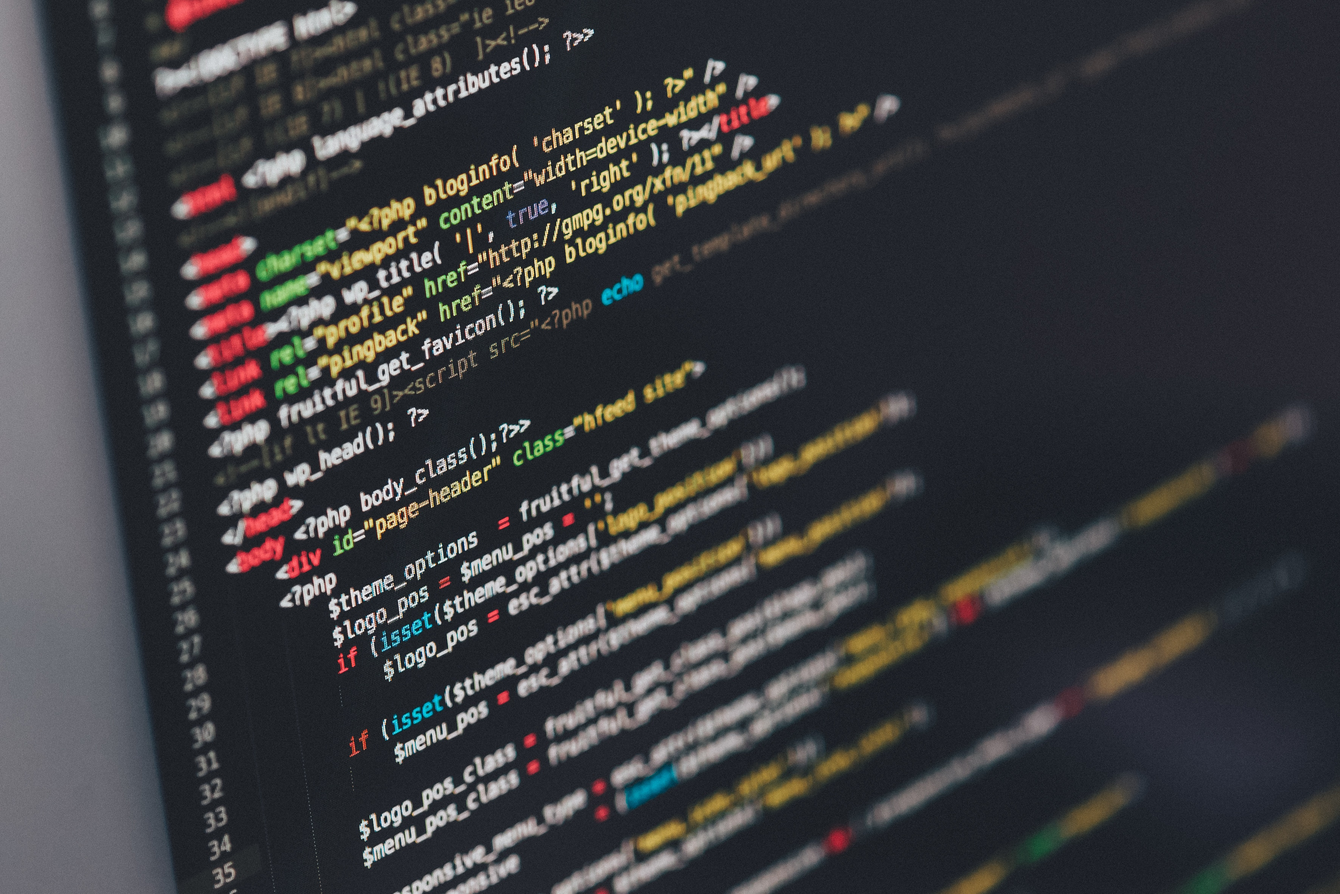
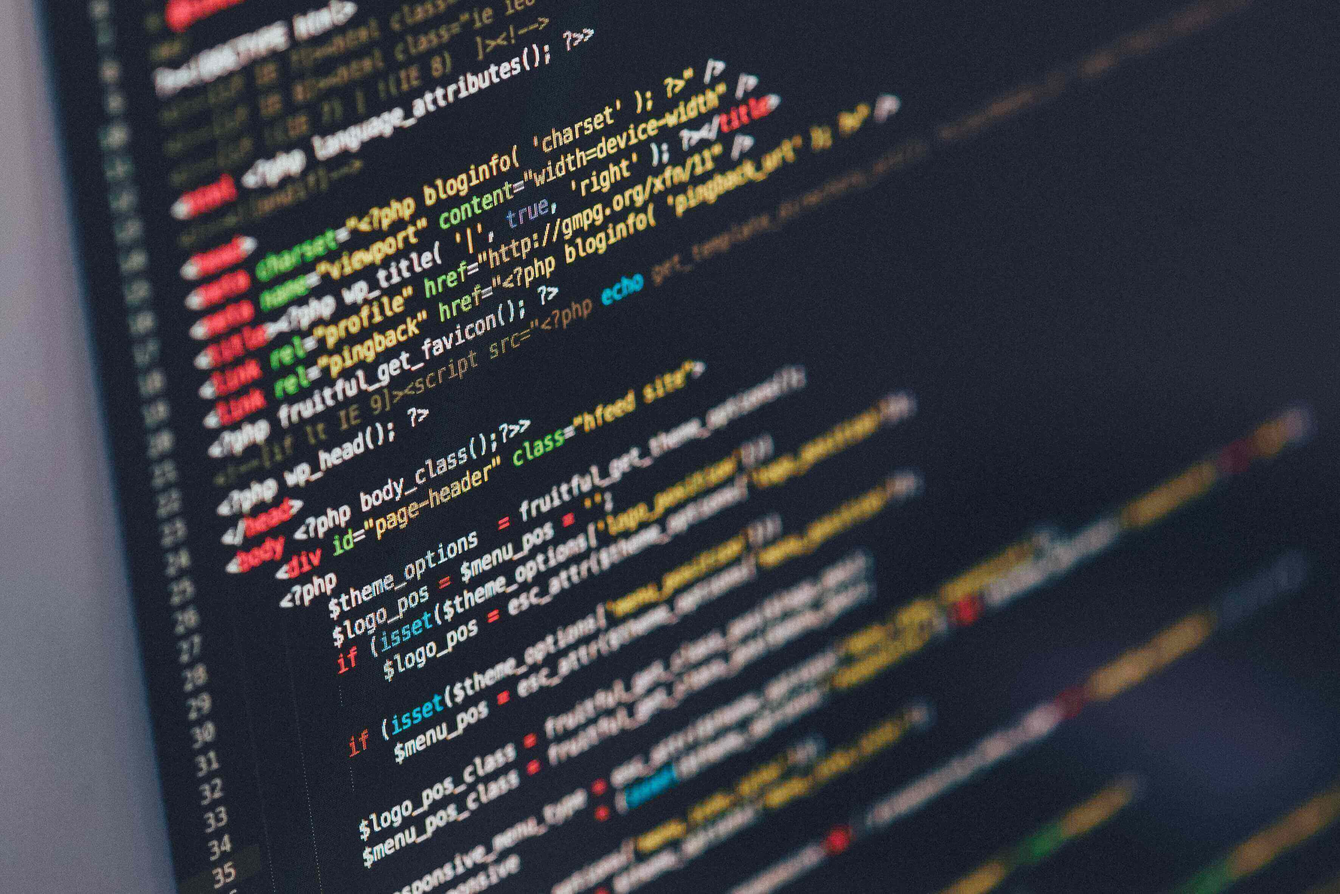
smaller hero

diff --git a/index.html b/index.html
@@ -25,16 +25,16 @@
             </div>
             <ul>
                 <li>
-                    <a href="#">About</a>
+                    <a href="#about">About</a>
                 </li>
                 <li>
-                    <a href="#">Hobbies</a>
+                    <a href="#hobbies">Hobbies</a>
                 </li>
                 <li>
-                    <a href="#">Skills</a>
+                    <a href="#skills">Skills</a>
                 </li>
                 <li>
-                    <a href="#">Projects</a>
+                    <a href="#projects">Projects</a>
                 </li>
             </ul>
             <div class="social__icon">
@@ -45,21 +45,35 @@
         </nav>
         
         <section class="content about">
-            <h2>CDN...</h2>
+            <h2 id="about">ABOUT</h2>
+          <p>
+                Lorem ipsum dolor sit amet consectetur adipisicing elit. Debitis, quae eligendi porro, earum culpa provident delectus saepe reprehenderit nihil asperiores dolorum minima, facilis error voluptas totam repudiandae! Delectus dolorum quisquam, corporis quae a praesentium, quis mollitia voluptatem, quas sequi doloremque suscipit voluptatum tenetur nam reprehenderit. Praesentium odit, unde commodi sunt odio dolor voluptates adipisci facere, impedit laudantium ipsam! Possimus, voluptates. Expedita accusantium magnam iusto, quidem deserunt optio minima neque natus non eaque nesciunt vel illum quia corrupti fugit commodi, aspernatur ea recusandae soluta et officiis animi, vero quod! Minima incidunt illo laudantium. Iure, mollitia blanditiis veritatis eum architecto nam maxime similique dicta accusantium labore rem unde veniam quod delectus omnis, facilis iste, autem quae consequuntur est quibusdam obcaecati ullam vero dignissimos! Excepturi porro, ad sunt sequi optio in labore quibusdam repellat unde nemo enim quas ipsum cumque vitae soluta nihil dolore aliquam tenetur tempore, expedita consequuntur ex earum? Reiciendis odio qui harum minus provident est voluptas eaque fugiat perspiciatis in aperiam doloribus ullam cum, illo, magnam voluptates molestias cumque! Ad repellat iste fuga nostrum esse incidunt labore quae aliquam quam quidem laudantium voluptatibus deserunt, eaque, ex, cumque eius id. Aliquid perspiciatis voluptate vero ipsa, alias veritatis id ullam laudantium eos quos ratione provident reiciendis iure tenetur quae molestias at voluptates, adipisci repellat dolore sed. Modi itaque libero error iste soluta! In animi recusandae pariatur impedit iure expedita qui velit laboriosam sapiente explicabo. Iste velit officia deserunt veritatis eaque excepturi, quibusdam sequi rem, nam, ipsa quasi voluptatum consequatur voluptas labore? Labore deserunt suscipit voluptas exercitationem ducimus! Nihil asperiores libero, tempore sit iusto aspernatur. Optio alias quae earum excepturi, odit doloremque animi quisquam eum facere blanditiis consequatur molestias ullam magnam magni voluptate temporibus reprehenderit asperiores veritatis, quibusdam ad. Suscipit voluptatibus non accusantium cupiditate natus, laboriosam enim laborum dicta incidunt eaque quam, fugit voluptates alias eligendi rerum iure ab! Pariatur dolores debitis praesentium consectetur enim aliquid neque eum esse odit mollitia? Neque molestiae ex cum iste dolore dicta nostrum est dolores voluptatem fuga necessitatibus eius impedit nemo beatae numquam aperiam, repellendus laborum accusantium, facilis, consectetur aliquid dolorem quos corrupti. Accusamus, impedit inventore laboriosam neque asperiores sint quidem dignissimos quisquam blanditiis ea tempore libero fugit, qui provident quae incidunt dolores et voluptatem quas adipisci aliquid! Iste quam soluta adipisci cupiditate, odit dolor iusto eos, vero quas suscipit ipsa fugiat veritatis! Aliquam veniam magni, quia suscipit sint fuga culpa quisquam doloribus numquam? Fugiat velit doloribus eveniet unde dolore minus totam quasi alias repellat ad atque, officiis qui facilis veritatis accusamus aliquid optio expedita dolorem nemo illo! Sed, voluptas eius alias iusto aliquid repellat ab expedita qui reprehenderit quas ratione quo laborum totam rem ea dignissimos, ullam libero. Ea reprehenderit facere voluptates placeat laborum labore, at molestias quo libero a dignissimos saepe, laudantium ipsum expedita magni minima atque tempora dolores nostrum ducimus. Impedit tempora possimus modi ratione, soluta quas. Eius dolore, veritatis commodi ipsa obcaecati hic voluptas beatae velit eligendi repudiandae. Impedit culpa soluta quisquam sit recusandae, nulla animi aperiam quidem repellendus, odit incidunt vero quam eum optio! Tenetur, libero quidem. Saepe, explicabo fugiat? Nostrum, hic magnam fugit obcaecati neque quas. Hic nostrum consequuntur beatae fugit illo, laudantium aspernatur, nesciunt dolorem quae atque nam possimus ad, a quaerat quam illum assumenda enim fugiat in delectus cum! Maxime eveniet nulla, unde ipsum quidem eos quasi? Eos porro unde officia minima ipsum eligendi, laudantium non maxime adipisci voluptate animi quaerat eveniet aliquid quod quasi ea inventore optio voluptatum delectus voluptas numquam exercitationem, necessitatibus aut. Aut, rerum consectetur similique voluptates maiores ipsam numquam sint accusamus exercitationem id ullam, repellat fugiat laboriosam voluptas. Fugiat natus odio soluta voluptatibus enim quo, expedita rem pariatur! Eveniet qui suscipit molestiae exercitationem impedit quis reprehenderit. Fuga, animi eligendi facere mollitia recusandae, impedit praesentium earum aut quo sed veniam repudiandae illo necessitatibus fugit dicta nemo! Facere quas ipsam voluptatum soluta dignissimos quia nobis distinctio fugit quasi sequi nihil adipisci quis cum laborum mollitia alias iusto veritatis suscipit quidem sapiente, in dolore tenetur cumque. Perferendis animi officiis asperiores qui assumenda veritatis iusto facere provident repellat, distinctio quam ea aspernatur fugiat voluptate necessitatibus corrupti pariatur, natus hic perspiciatis sint rerum? Reprehenderit placeat cum repellat nostrum tempore dignissimos commodi sit magni natus consectetur? Accusantium eaque nam laboriosam laborum fugit vero exercitationem, molestiae incidunt nesciunt possimus deleniti sunt inventore tempore dolorum dicta, delectus beatae reiciendis eligendi maxime aspernatur harum facere ea amet esse. Similique harum rem sequi, consequatur consequuntur quae tenetur dicta voluptas explicabo doloremque nobis non unde eos optio atque porro assumenda necessitatibus. Tempora quod, soluta iusto ipsum magni distinctio dignissimos ratione cupiditate quisquam praesentium laborum veritatis ea repellendus dolor eveniet vel temporibus dolores! In ut, voluptatibus quis quia dolores cumque, deserunt quas, aspernatur assumenda odit et delectus maiores laboriosam rem quisquam? Nam nihil ea voluptatibus eaque excepturi quidem nostrum. Obcaecati sunt optio voluptatibus? Dolorum, facilis cumque officiis id nihil quisquam et illo! Deleniti iure reiciendis repudiandae maxime corporis obcaecati. Cupiditate est repellendus officiis? Facilis velit sint quae odio sed fuga suscipit ad, eius quo tenetur, accusamus, asperiores unde ea quos quas delectus reiciendis nesciunt placeat! Sed deserunt blanditiis alias aliquid voluptatum ex eaque temporibus exercitationem non! Odio laboriosam quos, magnam officiis error accusantium sed accusamus soluta tempora cum facere eos at asperiores necessitatibus esse molestiae maxime porro, aut, obcaecati magni nemo? Error est explicabo delectus, vitae pariatur beatae fuga quibusdam sit exercitationem ex aperiam necessitatibus nihil! Quas, nostrum, cupiditate asperiores consequatur, animi recusandae eaque ipsum aspernatur soluta velit unde natus officia deserunt beatae maiores voluptate tempora quisquam nobis consectetur deleniti. Reiciendis laborum expedita accusantium nam quis maxime odio obcaecati molestiae facilis nostrum libero dolorem ullam sequi ea, vero amet animi culpa aliquam impedit qui quisquam consequatur illum ipsum a? Animi, eius maxime magnam quo nemo unde dolor fugiat illo hic doloremque aut accusantium nihil autem? Iusto neque magnam praesentium officia distinctio aliquid impedit dolores nemo unde exercitationem, quod ut doloremque iste numquam recusandae expedita quos inventore ad et voluptates eligend
+            </p>
         </section>
         <section class="content hobbies">
-
+                <h2 id="hobbies">HOBBIES</h2>
+                <p>
+                    Lorem ipsum dolor sit amet consectetur adipisicing elit. Debitis, quae eligendi porro, earum culpa provident delectus saepe reprehenderit nihil asperiores dolorum minima, facilis error voluptas totam repudiandae! Delectus dolorum quisquam, corporis quae a praesentium, quis mollitia voluptatem, quas sequi doloremque suscipit voluptatum tenetur nam reprehenderit. Praesentium odit, unde commodi sunt odio dolor voluptates adipisci facere, impedit laudantium ipsam! Possimus, voluptates. Expedita accusantium magnam iusto, quidem deserunt optio minima neque natus non eaque nesciunt vel illum quia corrupti fugit commodi, aspernatur ea recusandae soluta et officiis animi, vero quod! Minima incidunt illo laudantium. Iure, mollitia blanditiis veritatis eum architecto nam maxime similique dicta accusantium labore rem unde veniam quod delectus omnis, facilis iste, autem quae consequuntur est quibusdam obcaecati ullam vero dignissimos! Excepturi porro, ad sunt sequi optio in labore quibusdam repellat unde nemo enim quas ipsum cumque vitae soluta nihil dolore aliquam tenetur tempore, expedita consequuntur ex earum? Reiciendis odio qui harum minus provident est voluptas eaque fugiat perspiciatis in aperiam doloribus ullam cum, illo, magnam voluptates molestias cumque! Ad repellat iste fuga nostrum esse incidunt labore quae aliquam quam quidem laudantium voluptatibus deserunt, eaque, ex, cumque eius id. Aliquid perspiciatis voluptate vero ipsa, alias veritatis id ullam laudantium eos quos ratione provident reiciendis iure tenetur quae molestias at voluptates, adipisci repellat dolore sed. Modi itaque libero error iste soluta! In animi recusandae pariatur impedit iure expedita qui velit laboriosam sapiente explicabo. Iste velit officia deserunt veritatis eaque excepturi, quibusdam sequi rem, nam, ipsa quasi voluptatum consequatur voluptas labore? Labore deserunt suscipit voluptas exercitationem ducimus! Nihil asperiores libero, tempore sit iusto aspernatur. Optio alias quae earum excepturi, odit doloremque animi quisquam eum facere blanditiis consequatur molestias ullam magnam magni voluptate temporibus reprehenderit asperiores veritatis, quibusdam ad. Suscipit voluptatibus non accusantium cupiditate natus, laboriosam enim laborum dicta incidunt eaque quam, fugit voluptates alias eligendi rerum iure ab! Pariatur dolores debitis praesentium consectetur enim aliquid neque eum esse odit mollitia? Neque molestiae ex cum iste dolore dicta nostrum est dolores voluptatem fuga necessitatibus eius impedit nemo beatae numquam aperiam, repellendus laborum accusantium, facilis, consectetur aliquid dolorem quos corrupti. Accusamus, impedit inventore laboriosam neque asperiores sint quidem dignissimos quisquam blanditiis ea tempore libero fugit, qui provident quae incidunt dolores et voluptatem quas adipisci aliquid! Iste quam soluta adipisci cupiditate, odit dolor iusto eos, vero quas suscipit ipsa fugiat veritatis! Aliquam veniam magni, quia suscipit sint fuga culpa quisquam doloribus numquam? Fugiat velit doloribus eveniet unde dolore minus totam quasi alias repellat ad atque, officiis qui facilis veritatis accusamus aliquid optio expedita dolorem nemo illo! Sed, voluptas eius alias iusto aliquid repellat ab expedita qui reprehenderit quas ratione quo laborum totam rem ea dignissimos, ullam libero. Ea reprehenderit facere voluptates placeat laborum labore, at molestias quo libero a dignissimos saepe, laudantium ipsum expedita magni minima atque tempora dolores nostrum ducimus. Impedit tempora possimus modi ratione, soluta quas. Eius dolore, veritatis commodi ipsa obcaecati hic voluptas beatae velit eligendi repudiandae. Impedit culpa soluta quisquam sit recusandae, nulla animi aperiam quidem repellendus, odit incidunt vero quam eum optio! Tenetur, libero quidem. Saepe, explicabo fugiat? Nostrum, hic magnam fugit obcaecati neque quas. Hic nostrum consequuntur beatae fugit illo, laudantium aspernatur, nesciunt dolorem quae atque nam possimus ad, a quaerat quam illum assumenda enim fugiat in delectus cum! Maxime eveniet nulla, unde ipsum quidem eos quasi? Eos porro unde officia minima ipsum eligendi, laudantium non maxime adipisci voluptate animi quaerat eveniet aliquid quod quasi ea inventore optio voluptatum delectus voluptas numquam exercitationem, necessitatibus aut. Aut, rerum consectetur similique voluptates maiores ipsam numquam sint accusamus exercitationem id ullam, repellat fugiat laboriosam voluptas. Fugiat natus odio soluta voluptatibus enim quo, expedita rem pariatur! Eveniet qui suscipit molestiae exercitationem impedit quis reprehenderit. Fuga, animi eligendi facere mollitia recusandae, impedit praesentium earum aut quo sed veniam repudiandae illo necessitatibus fugit dicta nemo! Facere quas ipsam voluptatum soluta dignissimos quia nobis distinctio fugit quasi sequi nihil adipisci quis cum laborum mollitia alias iusto veritatis suscipit quidem sapiente, in dolore tenetur cumque. Perferendis animi officiis asperiores qui assumenda veritatis iusto facere provident repellat, distinctio quam ea aspernatur fugiat voluptate necessitatibus corrupti pariatur, natus hic perspiciatis sint rerum? Reprehenderit placeat cum repellat nostrum tempore dignissimos commodi sit magni natus consectetur? Accusantium eaque nam laboriosam laborum fugit vero exercitationem, molestiae incidunt nesciunt possimus deleniti sunt inventore tempore dolorum dicta, delectus beatae reiciendis eligendi maxime aspernatur harum facere ea amet esse. Similique harum rem sequi, consequatur consequuntur quae tenetur dicta voluptas explicabo doloremque nobis non unde eos optio atque porro assumenda necessitatibus. Tempora quod, soluta iusto ipsum magni distinctio dignissimos ratione cupiditate quisquam praesentium laborum veritatis ea repellendus dolor eveniet vel temporibus dolores! In ut, voluptatibus quis quia dolores cumque, deserunt quas, aspernatur assumenda odit et delectus maiores laboriosam rem quisquam? Nam nihil ea voluptatibus eaque excepturi quidem nostrum. Obcaecati sunt optio voluptatibus? Dolorum, facilis cumque officiis id nihil quisquam et illo! Deleniti iure reiciendis repudiandae maxime corporis obcaecati. Cupiditate est repellendus officiis? Facilis velit sint quae odio sed fuga suscipit ad, eius quo tenetur, accusamus, asperiores unde ea quos quas delectus reiciendis nesciunt placeat! Sed deserunt blanditiis alias aliquid voluptatum ex eaque temporibus exercitationem non! Odio laboriosam quos, magnam officiis error accusantium sed accusamus soluta tempora cum facere eos at asperiores necessitatibus esse molestiae maxime porro, aut, obcaecati magni nemo? Error est explicabo delectus, vitae pariatur beatae fuga quibusdam sit exercitationem ex aperiam necessitatibus nihil! Quas, nostrum, cupiditate asperiores consequatur, animi recusandae eaque ipsum aspernatur soluta velit unde natus officia deserunt beatae maiores voluptate tempora quisquam nobis consectetur deleniti. Reiciendis laborum expedita accusantium nam quis maxime odio obcaecati molestiae facilis nostrum libero dolorem ullam sequi ea, vero amet animi culpa aliquam impedit qui quisquam consequatur illum ipsum a? Animi, eius maxime magnam quo nemo unde dolor fugiat illo hic doloremque aut accusantium nihil autem? Iusto neque magnam praesentium officia distinctio aliquid impedit dolores nemo unde exercitationem, quod ut doloremque iste numquam recusandae expedita quos inventore ad et voluptates eligend
+                </p>
+            </section>
         </section>
         <section class="content skills">
-
+                <h2 id="skills">SKILLS</h2>
+                <p>
+                    Lorem ipsum dolor sit amet consectetur adipisicing elit. Debitis, quae eligendi porro, earum culpa provident delectus saepe reprehenderit nihil asperiores dolorum minima, facilis error voluptas totam repudiandae! Delectus dolorum quisquam, corporis quae a praesentium, quis mollitia voluptatem, quas sequi doloremque suscipit voluptatum tenetur nam reprehenderit. Praesentium odit, unde commodi sunt odio dolor voluptates adipisci facere, impedit laudantium ipsam! Possimus, voluptates. Expedita accusantium magnam iusto, quidem deserunt optio minima neque natus non eaque nesciunt vel illum quia corrupti fugit commodi, aspernatur ea recusandae soluta et officiis animi, vero quod! Minima incidunt illo laudantium. Iure, mollitia blanditiis veritatis eum architecto nam maxime similique dicta accusantium labore rem unde veniam quod delectus omnis, facilis iste, autem quae consequuntur est quibusdam obcaecati ullam vero dignissimos! Excepturi porro, ad sunt sequi optio in labore quibusdam repellat unde nemo enim quas ipsum cumque vitae soluta nihil dolore aliquam tenetur tempore, expedita consequuntur ex earum? Reiciendis odio qui harum minus provident est voluptas eaque fugiat perspiciatis in aperiam doloribus ullam cum, illo, magnam voluptates molestias cumque! Ad repellat iste fuga nostrum esse incidunt labore quae aliquam quam quidem laudantium voluptatibus deserunt, eaque, ex, cumque eius id. Aliquid perspiciatis voluptate vero ipsa, alias veritatis id ullam laudantium eos quos ratione provident reiciendis iure tenetur quae molestias at voluptates, adipisci repellat dolore sed. Modi itaque libero error iste soluta! In animi recusandae pariatur impedit iure expedita qui velit laboriosam sapiente explicabo. Iste velit officia deserunt veritatis eaque excepturi, quibusdam sequi rem, nam, ipsa quasi voluptatum consequatur voluptas labore? Labore deserunt suscipit voluptas exercitationem ducimus! Nihil asperiores libero, tempore sit iusto aspernatur. Optio alias quae earum excepturi, odit doloremque animi quisquam eum facere blanditiis consequatur molestias ullam magnam magni voluptate temporibus reprehenderit asperiores veritatis, quibusdam ad. Suscipit voluptatibus non accusantium cupiditate natus, laboriosam enim laborum dicta incidunt eaque quam, fugit voluptates alias eligendi rerum iure ab! Pariatur dolores debitis praesentium consectetur enim aliquid neque eum esse odit mollitia? Neque molestiae ex cum iste dolore dicta nostrum est dolores voluptatem fuga necessitatibus eius impedit nemo beatae numquam aperiam, repellendus laborum accusantium, facilis, consectetur aliquid dolorem quos corrupti. Accusamus, impedit inventore laboriosam neque asperiores sint quidem dignissimos quisquam blanditiis ea tempore libero fugit, qui provident quae incidunt dolores et voluptatem quas adipisci aliquid! Iste quam soluta adipisci cupiditate, odit dolor iusto eos, vero quas suscipit ipsa fugiat veritatis! Aliquam veniam magni, quia suscipit sint fuga culpa quisquam doloribus numquam? Fugiat velit doloribus eveniet unde dolore minus totam quasi alias repellat ad atque, officiis qui facilis veritatis accusamus aliquid optio expedita dolorem nemo illo! Sed, voluptas eius alias iusto aliquid repellat ab expedita qui reprehenderit quas ratione quo laborum totam rem ea dignissimos, ullam libero. Ea reprehenderit facere voluptates placeat laborum labore, at molestias quo libero a dignissimos saepe, laudantium ipsum expedita magni minima atque tempora dolores nostrum ducimus. Impedit tempora possimus modi ratione, soluta quas. Eius dolore, veritatis commodi ipsa obcaecati hic voluptas beatae velit eligendi repudiandae. Impedit culpa soluta quisquam sit recusandae, nulla animi aperiam quidem repellendus, odit incidunt vero quam eum optio! Tenetur, libero quidem. Saepe, explicabo fugiat? Nostrum, hic magnam fugit obcaecati neque quas. Hic nostrum consequuntur beatae fugit illo, laudantium aspernatur, nesciunt dolorem quae atque nam possimus ad, a quaerat quam illum assumenda enim fugiat in delectus cum! Maxime eveniet nulla, unde ipsum quidem eos quasi? Eos porro unde officia minima ipsum eligendi, laudantium non maxime adipisci voluptate animi quaerat eveniet aliquid quod quasi ea inventore optio voluptatum delectus voluptas numquam exercitationem, necessitatibus aut. Aut, rerum consectetur similique voluptates maiores ipsam numquam sint accusamus exercitationem id ullam, repellat fugiat laboriosam voluptas. Fugiat natus odio soluta voluptatibus enim quo, expedita rem pariatur! Eveniet qui suscipit molestiae exercitationem impedit quis reprehenderit. Fuga, animi eligendi facere mollitia recusandae, impedit praesentium earum aut quo sed veniam repudiandae illo necessitatibus fugit dicta nemo! Facere quas ipsam voluptatum soluta dignissimos quia nobis distinctio fugit quasi sequi nihil adipisci quis cum laborum mollitia alias iusto veritatis suscipit quidem sapiente, in dolore tenetur cumque. Perferendis animi officiis asperiores qui assumenda veritatis iusto facere provident repellat, distinctio quam ea aspernatur fugiat voluptate necessitatibus corrupti pariatur, natus hic perspiciatis sint rerum? Reprehenderit placeat cum repellat nostrum tempore dignissimos commodi sit magni natus consectetur? Accusantium eaque nam laboriosam laborum fugit vero exercitationem, molestiae incidunt nesciunt possimus deleniti sunt inventore tempore dolorum dicta, delectus beatae reiciendis eligendi maxime aspernatur harum facere ea amet esse. Similique harum rem sequi, consequatur consequuntur quae tenetur dicta voluptas explicabo doloremque nobis non unde eos optio atque porro assumenda necessitatibus. Tempora quod, soluta iusto ipsum magni distinctio dignissimos ratione cupiditate quisquam praesentium laborum veritatis ea repellendus dolor eveniet vel temporibus dolores! In ut, voluptatibus quis quia dolores cumque, deserunt quas, aspernatur assumenda odit et delectus maiores laboriosam rem quisquam? Nam nihil ea voluptatibus eaque excepturi quidem nostrum. Obcaecati sunt optio voluptatibus? Dolorum, facilis cumque officiis id nihil quisquam et illo! Deleniti iure reiciendis repudiandae maxime corporis obcaecati. Cupiditate est repellendus officiis? Facilis velit sint quae odio sed fuga suscipit ad, eius quo tenetur, accusamus, asperiores unde ea quos quas delectus reiciendis nesciunt placeat! Sed deserunt blanditiis alias aliquid voluptatum ex eaque temporibus exercitationem non! Odio laboriosam quos, magnam officiis error accusantium sed accusamus soluta tempora cum facere eos at asperiores necessitatibus esse molestiae maxime porro, aut, obcaecati magni nemo? Error est explicabo delectus, vitae pariatur beatae fuga quibusdam sit exercitationem ex aperiam necessitatibus nihil! Quas, nostrum, cupiditate asperiores consequatur, animi recusandae eaque ipsum aspernatur soluta velit unde natus officia deserunt beatae maiores voluptate tempora quisquam nobis consectetur deleniti. Reiciendis laborum expedita accusantium nam quis maxime odio obcaecati molestiae facilis nostrum libero dolorem ullam sequi ea, vero amet animi culpa aliquam impedit qui quisquam consequatur illum ipsum a? Animi, eius maxime magnam quo nemo unde dolor fugiat illo hic doloremque aut accusantium nihil autem? Iusto neque magnam praesentium officia distinctio aliquid impedit dolores nemo unde exercitationem, quod ut doloremque iste numquam recusandae expedita quos inventore ad et voluptates eligend
+                </p>
+            </section>
         </section>
         <section class="content projects">
-
+                <h2 id="projects">PROJECTS</h2>
+                <p>
+                    Lorem ipsum dolor sit amet consectetur adipisicing elit. Debitis, quae eligendi porro, earum culpa provident delectus saepe reprehenderit nihil asperiores dolorum minima, facilis error voluptas totam repudiandae! Delectus dolorum quisquam, corporis quae a praesentium, quis mollitia voluptatem, quas sequi doloremque suscipit voluptatum tenetur nam reprehenderit. Praesentium odit, unde commodi sunt odio dolor voluptates adipisci facere, impedit laudantium ipsam! Possimus, voluptates. Expedita accusantium magnam iusto, quidem deserunt optio minima neque natus non eaque nesciunt vel illum quia corrupti fugit commodi, aspernatur ea recusandae soluta et officiis animi, vero quod! Minima incidunt illo laudantium. Iure, mollitia blanditiis veritatis eum architecto nam maxime similique dicta accusantium labore rem unde veniam quod delectus omnis, facilis iste, autem quae consequuntur est quibusdam obcaecati ullam vero dignissimos! Excepturi porro, ad sunt sequi optio in labore quibusdam repellat unde nemo enim quas ipsum cumque vitae soluta nihil dolore aliquam tenetur tempore, expedita consequuntur ex earum? Reiciendis odio qui harum minus provident est voluptas eaque fugiat perspiciatis in aperiam doloribus ullam cum, illo, magnam voluptates molestias cumque! Ad repellat iste fuga nostrum esse incidunt labore quae aliquam quam quidem laudantium voluptatibus deserunt, eaque, ex, cumque eius id. Aliquid perspiciatis voluptate vero ipsa, alias veritatis id ullam laudantium eos quos ratione provident reiciendis iure tenetur quae molestias at voluptates, adipisci repellat dolore sed. Modi itaque libero error iste soluta! In animi recusandae pariatur impedit iure expedita qui velit laboriosam sapiente explicabo. Iste velit officia deserunt veritatis eaque excepturi, quibusdam sequi rem, nam, ipsa quasi voluptatum consequatur voluptas labore? Labore deserunt suscipit voluptas exercitationem ducimus! Nihil asperiores libero, tempore sit iusto aspernatur. Optio alias quae earum excepturi, odit doloremque animi quisquam eum facere blanditiis consequatur molestias ullam magnam magni voluptate temporibus reprehenderit asperiores veritatis, quibusdam ad. Suscipit voluptatibus non accusantium cupiditate natus, laboriosam enim laborum dicta incidunt eaque quam, fugit voluptates alias eligendi rerum iure ab! Pariatur dolores debitis praesentium consectetur enim aliquid neque eum esse odit mollitia? Neque molestiae ex cum iste dolore dicta nostrum est dolores voluptatem fuga necessitatibus eius impedit nemo beatae numquam aperiam, repellendus laborum accusantium, facilis, consectetur aliquid dolorem quos corrupti. Accusamus, impedit inventore laboriosam neque asperiores sint quidem dignissimos quisquam blanditiis ea tempore libero fugit, qui provident quae incidunt dolores et voluptatem quas adipisci aliquid! Iste quam soluta adipisci cupiditate, odit dolor iusto eos, vero quas suscipit ipsa fugiat veritatis! Aliquam veniam magni, quia suscipit sint fuga culpa quisquam doloribus numquam? Fugiat velit doloribus eveniet unde dolore minus totam quasi alias repellat ad atque, officiis qui facilis veritatis accusamus aliquid optio expedita dolorem nemo illo! Sed, voluptas eius alias iusto aliquid repellat ab expedita qui reprehenderit quas ratione quo laborum totam rem ea dignissimos, ullam libero. Ea reprehenderit facere voluptates placeat laborum labore, at molestias quo libero a dignissimos saepe, laudantium ipsum expedita magni minima atque tempora dolores nostrum ducimus. Impedit tempora possimus modi ratione, soluta quas. Eius dolore, veritatis commodi ipsa obcaecati hic voluptas beatae velit eligendi repudiandae. Impedit culpa soluta quisquam sit recusandae, nulla animi aperiam quidem repellendus, odit incidunt vero quam eum optio! Tenetur, libero quidem. Saepe, explicabo fugiat? Nostrum, hic magnam fugit obcaecati neque quas. Hic nostrum consequuntur beatae fugit illo, laudantium aspernatur, nesciunt dolorem quae atque nam possimus ad, a quaerat quam illum assumenda enim fugiat in delectus cum! Maxime eveniet nulla, unde ipsum quidem eos quasi? Eos porro unde officia minima ipsum eligendi, laudantium non maxime adipisci voluptate animi quaerat eveniet aliquid quod quasi ea inventore optio voluptatum delectus voluptas numquam exercitationem, necessitatibus aut. Aut, rerum consectetur similique voluptates maiores ipsam numquam sint accusamus exercitationem id ullam, repellat fugiat laboriosam voluptas. Fugiat natus odio soluta voluptatibus enim quo, expedita rem pariatur! Eveniet qui suscipit molestiae exercitationem impedit quis reprehenderit. Fuga, animi eligendi facere mollitia recusandae, impedit praesentium earum aut quo sed veniam repudiandae illo necessitatibus fugit dicta nemo! Facere quas ipsam voluptatum soluta dignissimos quia nobis distinctio fugit quasi sequi nihil adipisci quis cum laborum mollitia alias iusto veritatis suscipit quidem sapiente, in dolore tenetur cumque. Perferendis animi officiis asperiores qui assumenda veritatis iusto facere provident repellat, distinctio quam ea aspernatur fugiat voluptate necessitatibus corrupti pariatur, natus hic perspiciatis sint rerum? Reprehenderit placeat cum repellat nostrum tempore dignissimos commodi sit magni natus consectetur? Accusantium eaque nam laboriosam laborum fugit vero exercitationem, molestiae incidunt nesciunt possimus deleniti sunt inventore tempore dolorum dicta, delectus beatae reiciendis eligendi maxime aspernatur harum facere ea amet esse. Similique harum rem sequi, consequatur consequuntur quae tenetur dicta voluptas explicabo doloremque nobis non unde eos optio atque porro assumenda necessitatibus. Tempora quod, soluta iusto ipsum magni distinctio dignissimos ratione cupiditate quisquam praesentium laborum veritatis ea repellendus dolor eveniet vel temporibus dolores! In ut, voluptatibus quis quia dolores cumque, deserunt quas, aspernatur assumenda odit et delectus maiores laboriosam rem quisquam? Nam nihil ea voluptatibus eaque excepturi quidem nostrum. Obcaecati sunt optio voluptatibus? Dolorum, facilis cumque officiis id nihil quisquam et illo! Deleniti iure reiciendis repudiandae maxime corporis obcaecati. Cupiditate est repellendus officiis? Facilis velit sint quae odio sed fuga suscipit ad, eius quo tenetur, accusamus, asperiores unde ea quos quas delectus reiciendis nesciunt placeat! Sed deserunt blanditiis alias aliquid voluptatum ex eaque temporibus exercitationem non! Odio laboriosam quos, magnam officiis error accusantium sed accusamus soluta tempora cum facere eos at asperiores necessitatibus esse molestiae maxime porro, aut, obcaecati magni nemo? Error est explicabo delectus, vitae pariatur beatae fuga quibusdam sit exercitationem ex aperiam necessitatibus nihil! Quas, nostrum, cupiditate asperiores consequatur, animi recusandae eaque ipsum aspernatur soluta velit unde natus officia deserunt beatae maiores voluptate tempora quisquam nobis consectetur deleniti. Reiciendis laborum expedita accusantium nam quis maxime odio obcaecati molestiae facilis nostrum libero dolorem ullam sequi ea, vero amet animi culpa aliquam impedit qui quisquam consequatur illum ipsum a? Animi, eius maxime magnam quo nemo unde dolor fugiat illo hic doloremque aut accusantium nihil autem? Iusto neque magnam praesentium officia distinctio aliquid impedit dolores nemo unde exercitationem, quod ut doloremque iste numquam recusandae expedita quos inventore ad et voluptates eligend
+                </p>
+            </section>
         </section>
     </main>
     <footer>
-
-
+        <p>footer</p>
     </footer>
 </body>
 

diff --git a/css/menu.css b/css/menu.css
@@ -17,7 +17,7 @@ ul {
 }
 
 .sidebar__menu a {
-    display: block;
+    display: flex;
     color: #000;
     padding: 16px;
     text-decoration: none;
@@ -38,32 +38,31 @@ ul {
     justify-content: flex-end;
 }
 
-@media screen and (max-width: 700px) {
+@media screen and (max-width: 730px) {
     .sidebar__menu {
         width: 100%;
         height: auto;
-        position: relative;
+        position: sticky;
     }
 
     .sidebar__menu a {
         float: left;
-        font-size: 12px;
+        height: ;
+        font-size: 1em;
     }
 
     .main__content {
         margin-left: 0;
     }
 
-    .social__icon img {
-        width: 15px;
-    }
 }
 
-@media screen and (max-width: 460px) {
+@media screen and (max-width: 480px) {
     .sidebar__menu a {
+        display: block;
         text-align: center;
         float: none;
-        font-size: 13px;
+        font-size: 1em;
     }
 
     .social__icon {

diff --git a/css/main.css b/css/main.css
@@ -2,7 +2,8 @@
     box-sizing: border-box;
 }
 
-body,html{
+body,
+html {
     margin: 0;
     padding: 0;
     height: 100%;
@@ -11,17 +12,23 @@ body,html{
     background-color: #000;
 }
 
-/* .content {
-    margin: 0;
-    padding: 1px 16px;
-    height: 5000px;
-    background-color: #202020;
-    position: static;
-} */
+h2 {
+    margin-top: 100px;
+    text-align: center;
+    font-size: 3em;
+}
+
+footer{
+    width: 100%;
+    height: 3em;
+    text-align: end;
+    background-color: #505050;
+}
 
 .content {
     margin: 0 auto;
+    margin-top: 3em;
     width: 90%;
-    height: 1000px;
-    background-color: #202020;
+    height: auto;
+    background-color: #fff;
 }

diff --git a/css/hero.css b/css/hero.css
@@ -44,6 +44,12 @@ header {
     transition: 0.4s;
 }
 
+@media screen and (max-width: 700px){
+    .hero__text {
+        font-size: 1.2em;
+    }
+}
+
 @media screen and (max-width: 550px){
     .hero__text {
         font-size: 1em;
